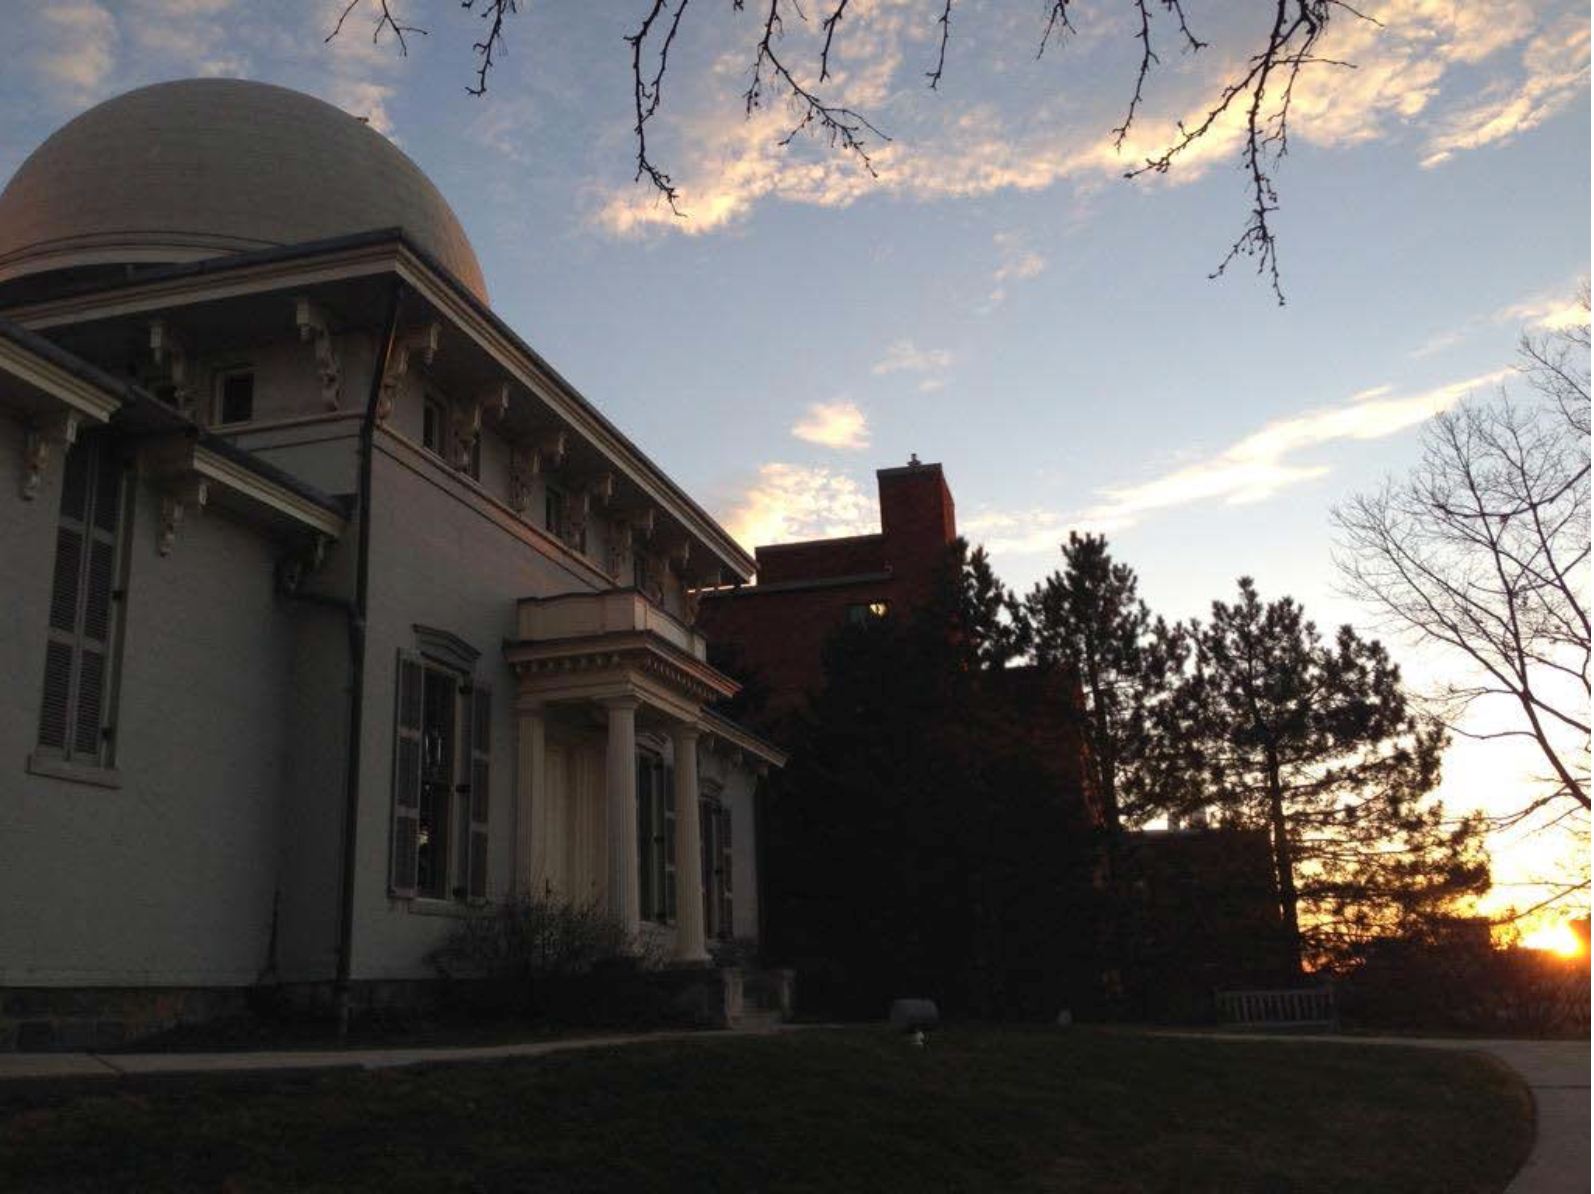
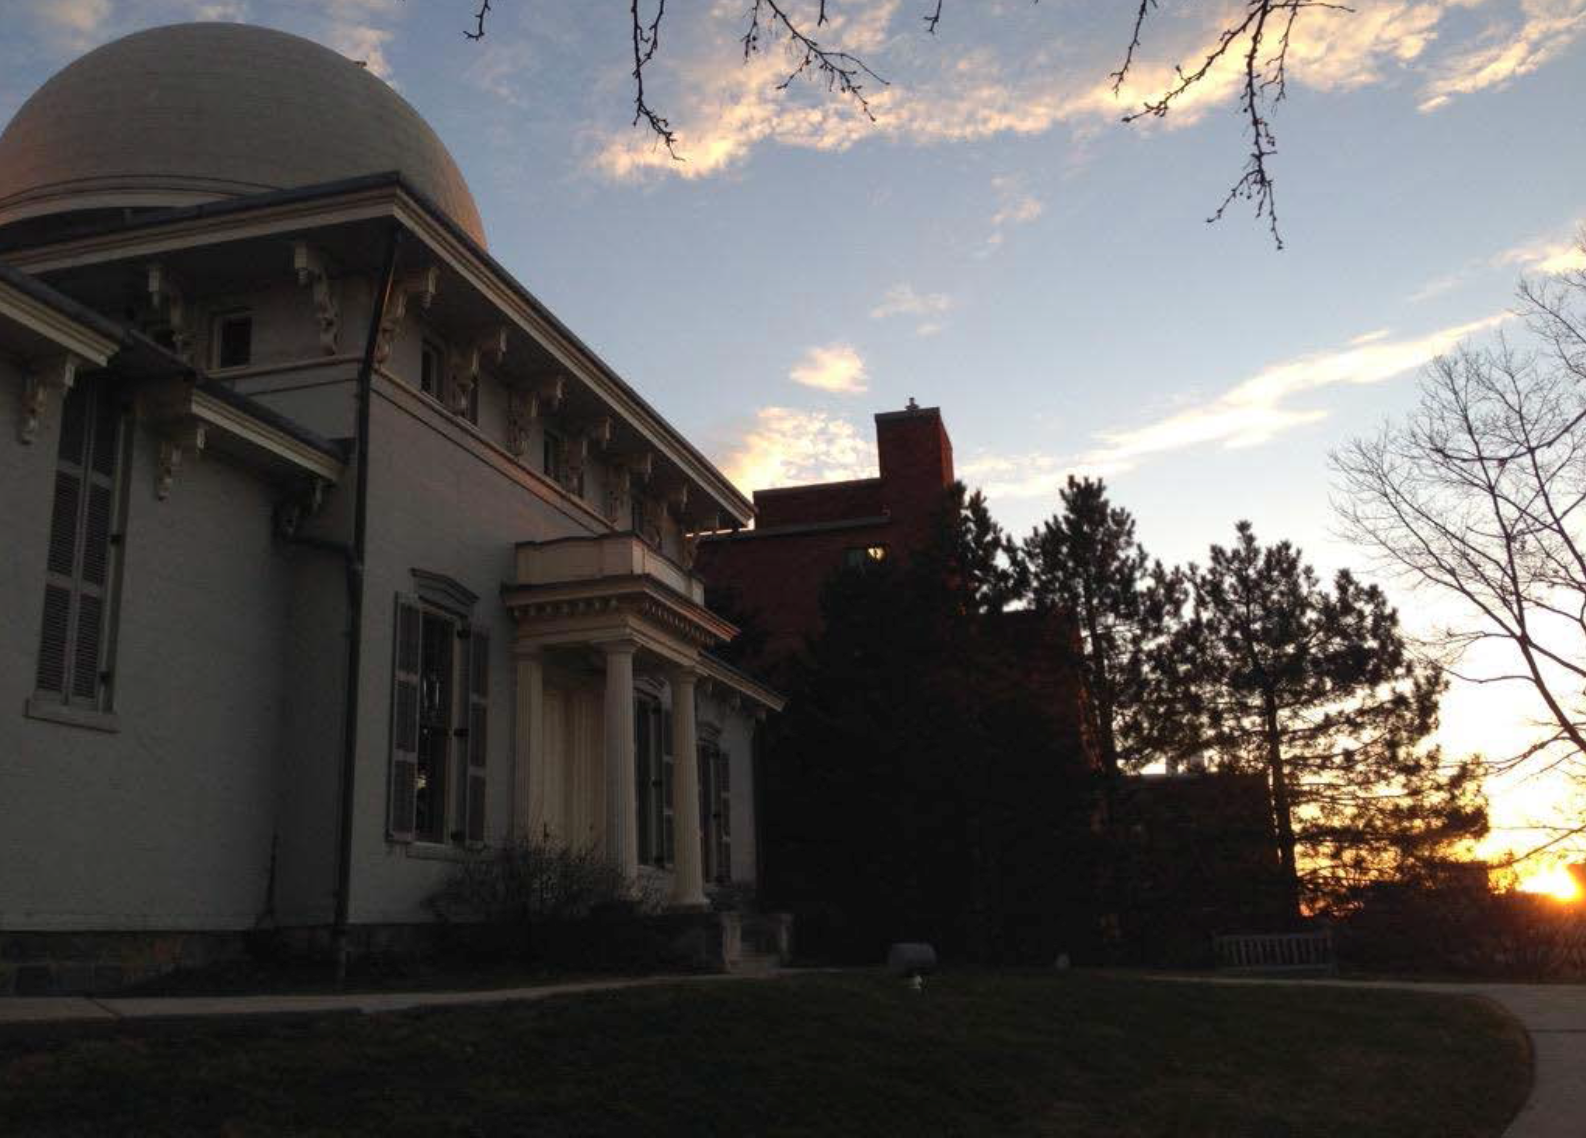
updated outreach page

diff --git a/stellar/outreach.html b/stellar/outreach.html
@@ -23,14 +23,7 @@
 			</header>
 <hr/>
 			<div class="content">
-			  <div class="grid">
-			    <figure class="effect-ming">
-			      <img src="images/DO.png" alt="Picture of the Detroit Observatory at sunset.">
-			      <figcaption>
-				<p>The Detroit Observatory at sunset.</p>
-			      </figcaption>
-			    </figure>
-			  </div>
+			      <img src="images/DO.png" alt="Picture of the Detroit Observatory at sunset." align="left" hspace="40" vspace="20" width="396" height="284">
 <span style="text-align: justify">
 The <a href="http://bentley.umich.edu/about/detroit-observatory/">Detroit Observatory (DO)</a>, located at the University of Michigan, is a 150 year old Ann Arbor historical site. Beginning in 2014 with funds from NSF AST-1311698, collaborators and I designed and began construction of exhibits, displays, and interactive learning tools to aid in visitors' understanding of conceptually difficult astronomical methods and principles. We developed these with college-aged and older visitors in mind, as the DO is not a sufficiently large facility to accommodate visiting secondary school groups, and recent visitors have mostly been adults. The installations' design was based in 
 present pedagogical strategies for informal learning to maximize impact, as informed
